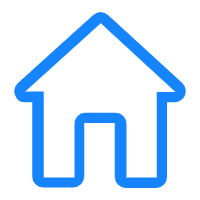
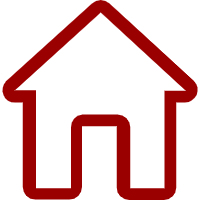
change theme color to red partially

diff --git a/cssa-mini/components/product-box/product-box.vue b/cssa-mini/components/product-box/product-box.vue
@@ -97,7 +97,7 @@
 	.price {
 		font-weight: 600;
 		height: 10%;
-		color: darkblue;
+		color: #9b0000;
 	}
 
 	.time {
@@ -116,9 +116,9 @@
 		padding-right: 3%;
 		text-align: center;
 		font-size: 10px;
-		color: #1E90FF;
+		color: #9b0000;
 		border-radius: 5px;
-		border-color: #1E90FF;
+		border-color: #9b0000;
 		border-style: solid;
 		border-width: 1pt;
 	}
@@ -151,7 +151,7 @@
 		position: absolute;
 		justify-content: center;
 		align-items: center;
-		background-color: #4169E1;
+		background-color: #9b0000;
 		color: white;
 		border-radius: 5px;
 		font-size: 12px;

diff --git a/cssa-mini/components/rental-box/rental-box.vue b/cssa-mini/components/rental-box/rental-box.vue
@@ -101,7 +101,7 @@
 		position: absolute;
 		justify-content: center;
 		align-items: center;
-		background-color: #4169E1;
+		background-color: #9b0000;
 		color: white;
 		border-radius: 5px;
 		font-size: 12px;
@@ -134,7 +134,7 @@
 		font-size: 20px;
 		font-weight: 600;
 		height: 15%;
-		color: darkblue;
+		color: #9b0000;
 	}
 	.description-box{
 		font-size: 10px;

diff --git a/cssa-mini/pages/rentalMain/rentalMain.vue b/cssa-mini/pages/rentalMain/rentalMain.vue
@@ -267,14 +267,14 @@
 		justify-content: space-around;
 		flex-shrink: 0;
 		font-size: 20px;
-		color: rgba(22, 132, 253, 0.4);
+		color: rgba(, 132, 253, 0.4);
 	}
 
 	.selected {
 		font-size: 21px;
 		transition: all 0.5s;
 		font-weight: 700;
-		color: #1684FC;
+		color: #9b0000;
 	}
 
 	.filter-box {

diff --git a/cssa-mini/pages/second/secondMain.vue b/cssa-mini/pages/second/secondMain.vue
@@ -38,7 +38,7 @@
 				productTypeList: productTypeList,
 				currentIndex: 0,
 				pattern: {
-					buttonColor: "#1684FC"
+					buttonColor: "#9b0000"
 				},
 				triggered: false,
 				status: "loading",
